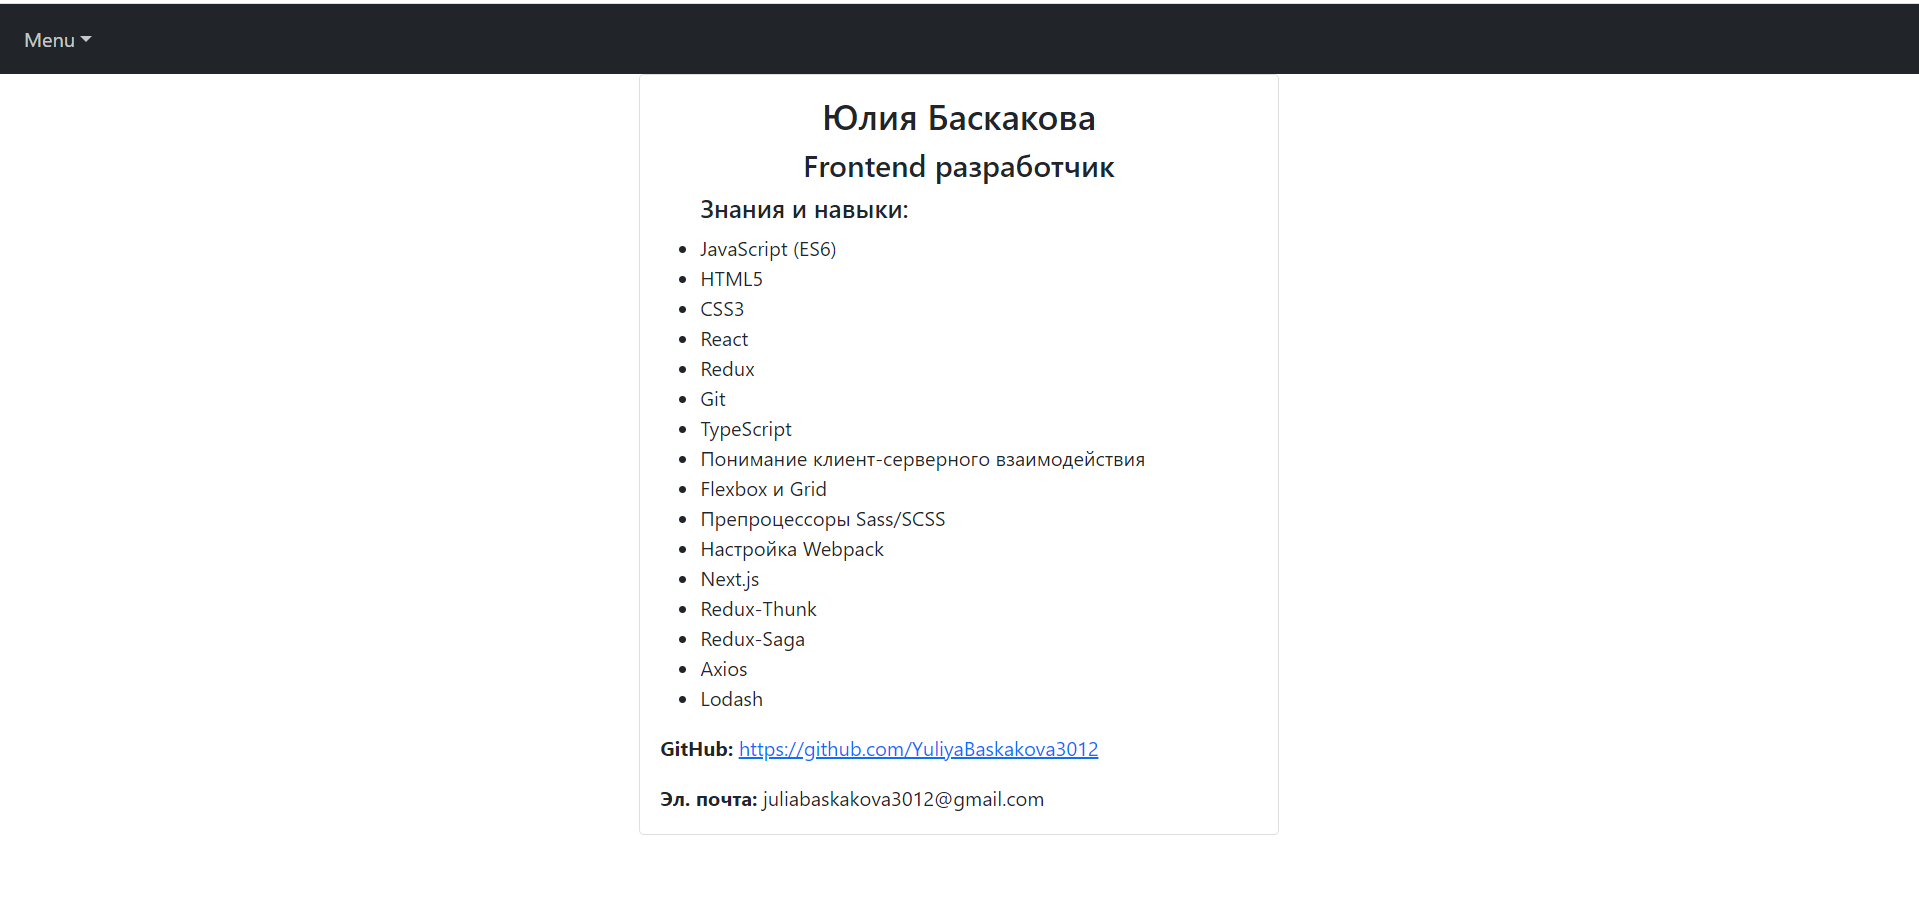
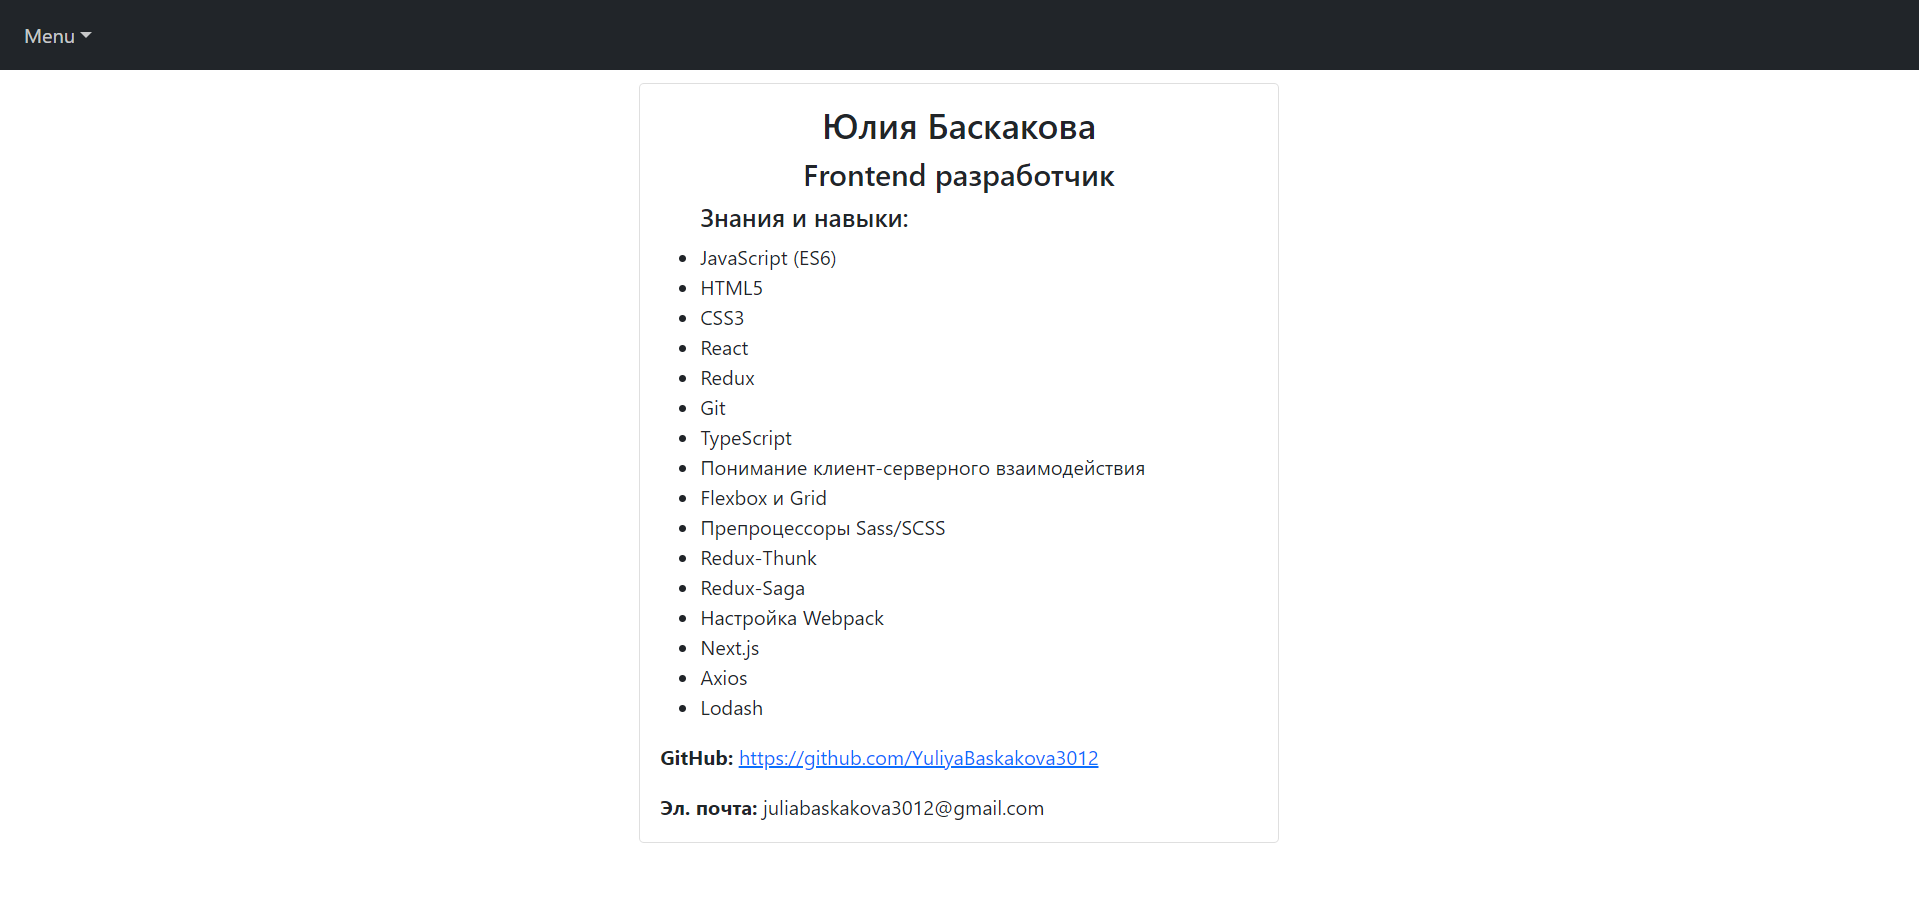
Add meta-teg

Changed region(s): [[0.3382, 0.1243, 0.6149, 0.9323], [0.0, 0.0, 1.0, 0.0932]]

diff --git a/src/components/AboutMe/AboutMe.js b/src/components/AboutMe/AboutMe.js
@@ -5,7 +5,7 @@ const AboutMe=()=>{
         document.title="Обо мне";
     })
     return(
-        <div className="row" style={{"margin": "0px"}} >
+        <div className="row" style={{"margin": "0px", "marginTop": "10px"}} >
           <div className="col-md-4" style={{"padding": "0px"}}/>
           <div className="col-sm-12 col-md-4" style={{"padding": "0px"}}>
               <div className="card">

diff --git a/public/index.html b/public/index.html
@@ -1,5 +1,7 @@
 <!DOCTYPE html>
 <title>Галерея</title>
+  <head>
+    <meta name="viewport" content="width=device-width, initial-scale=1.0">
   </head>
   <body>
     <div id="root"></div>
